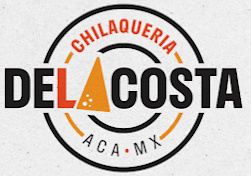
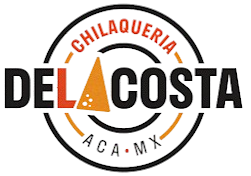
mejora del proyecto

diff --git a/index.html b/index.html
@@ -23,10 +23,10 @@
 </head>
 <body id="app">
 
-    <nav class="navbar navbar-expand-lg fixed-top" id="navbar">
+    <nav class="navbar navbar-expand-lg bg-dark fixed-top" id="navbar">
         <div class="container">
             <a href="#" class="navbar-brand">
-                <img src="DeLACosta.png" class="logo-3d" width="130" alt="">
+                <img src="DeLACosta_.png" class="logo-3d" width="130" alt="">
             </a>
 
             <button class="navbar-toggler" type="button" data-bs-toggle="collapse" data-bs-target="#navMenu">
@@ -44,8 +44,8 @@
     </nav>
 
     <header id="home" class="hero">
-        <div class="container hero-content text-center">
-            <div class="mx-auto mb-4" style="max-width: 420px;">
+        <div class="container hero-content text-center mt-3">
+            <div class="mx-auto mb-4" style="max-width: 380px;">
                 <img src="DeLACosta.png" class="hero-logo" alt="">
             </div>
             <h1 class="display-1 fw-bold text-white mb-3">CHILAQUILES DE LACOSTA</h1>
@@ -94,17 +94,11 @@
     </section>
 
     <!-- Footer -->
-    <footer id="contacto" class="footer py-5">
+    <footer id="contacto" class="footer py-5 bg-dark">
         <div class="container">
             <div class="row align-items-center text-center text-lg-start">
                 <div class="col-lg-4">
-                    <svg width="180" height="75" viewBox="0 0 420 160" fill="none" xmlns="http://www.w3.org/2000/svg">
-                        <circle cx="210" cy="80" r="55" stroke="#fff" stroke-width="12"/>
-                        <text x="210" y="38" font-family="Arial Black, sans-serif" font-size="18" fill="#e6392b" text-anchor="middle" letter-spacing="3">CHILAQUERIA</text>
-                        <text x="210" y="82" font-family="Arial Black, sans-serif" font-size="38" fill="#fff" text-anchor="middle" letter-spacing="-3">DE LA COSTA</text>
-                        <polygon points="165,65 185,65 175,82" fill="#ff6b00"/>
-                        <text x="210" y="112" font-family="Arial Black, sans-serif" font-size="14" fill="#fff" text-anchor="middle" letter-spacing="5">ACA • MX</text>
-                    </svg>
+                    <img src="DeLACosta.png" alt="">
                 </div>
                 <div class="col-lg-4">
                     <p class="fw-bold">Síguenos en</p>
